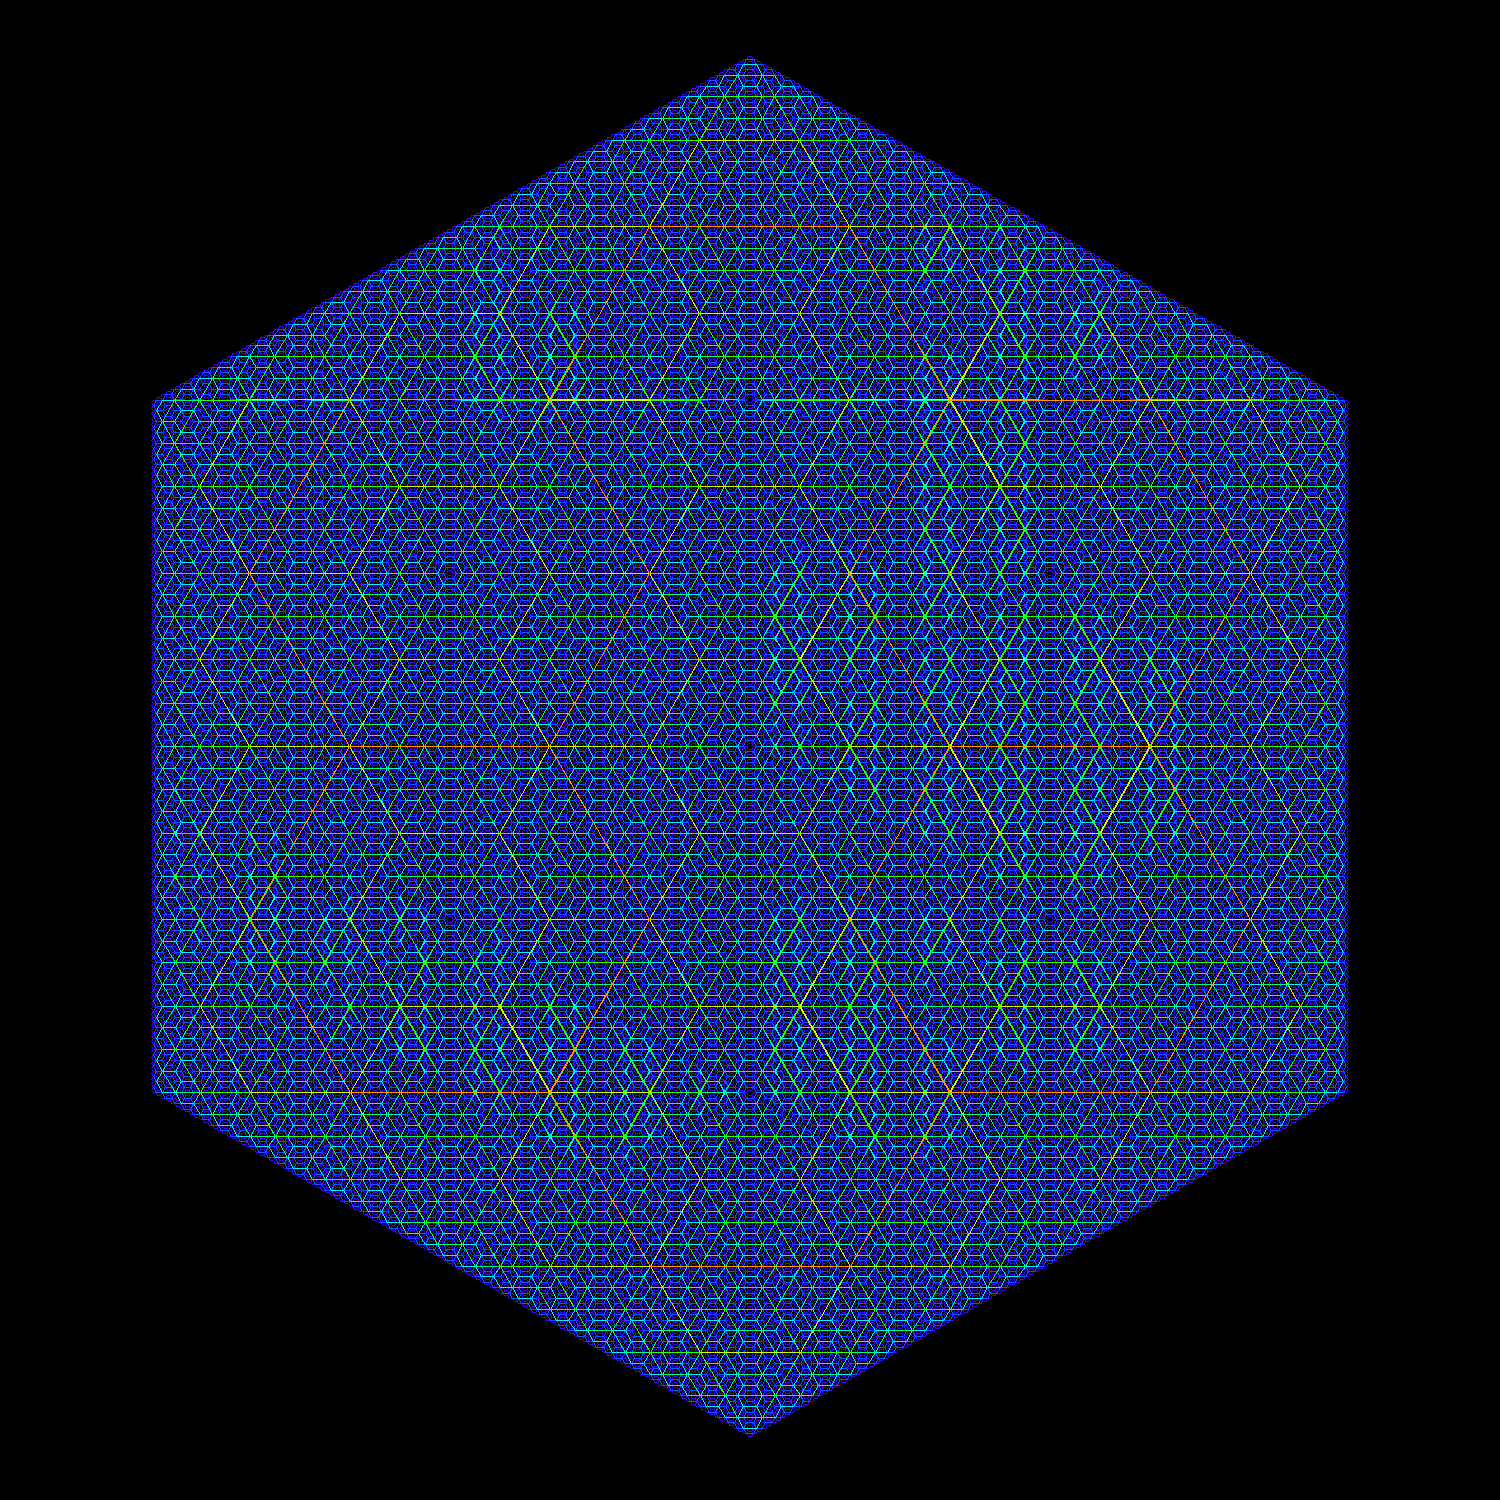
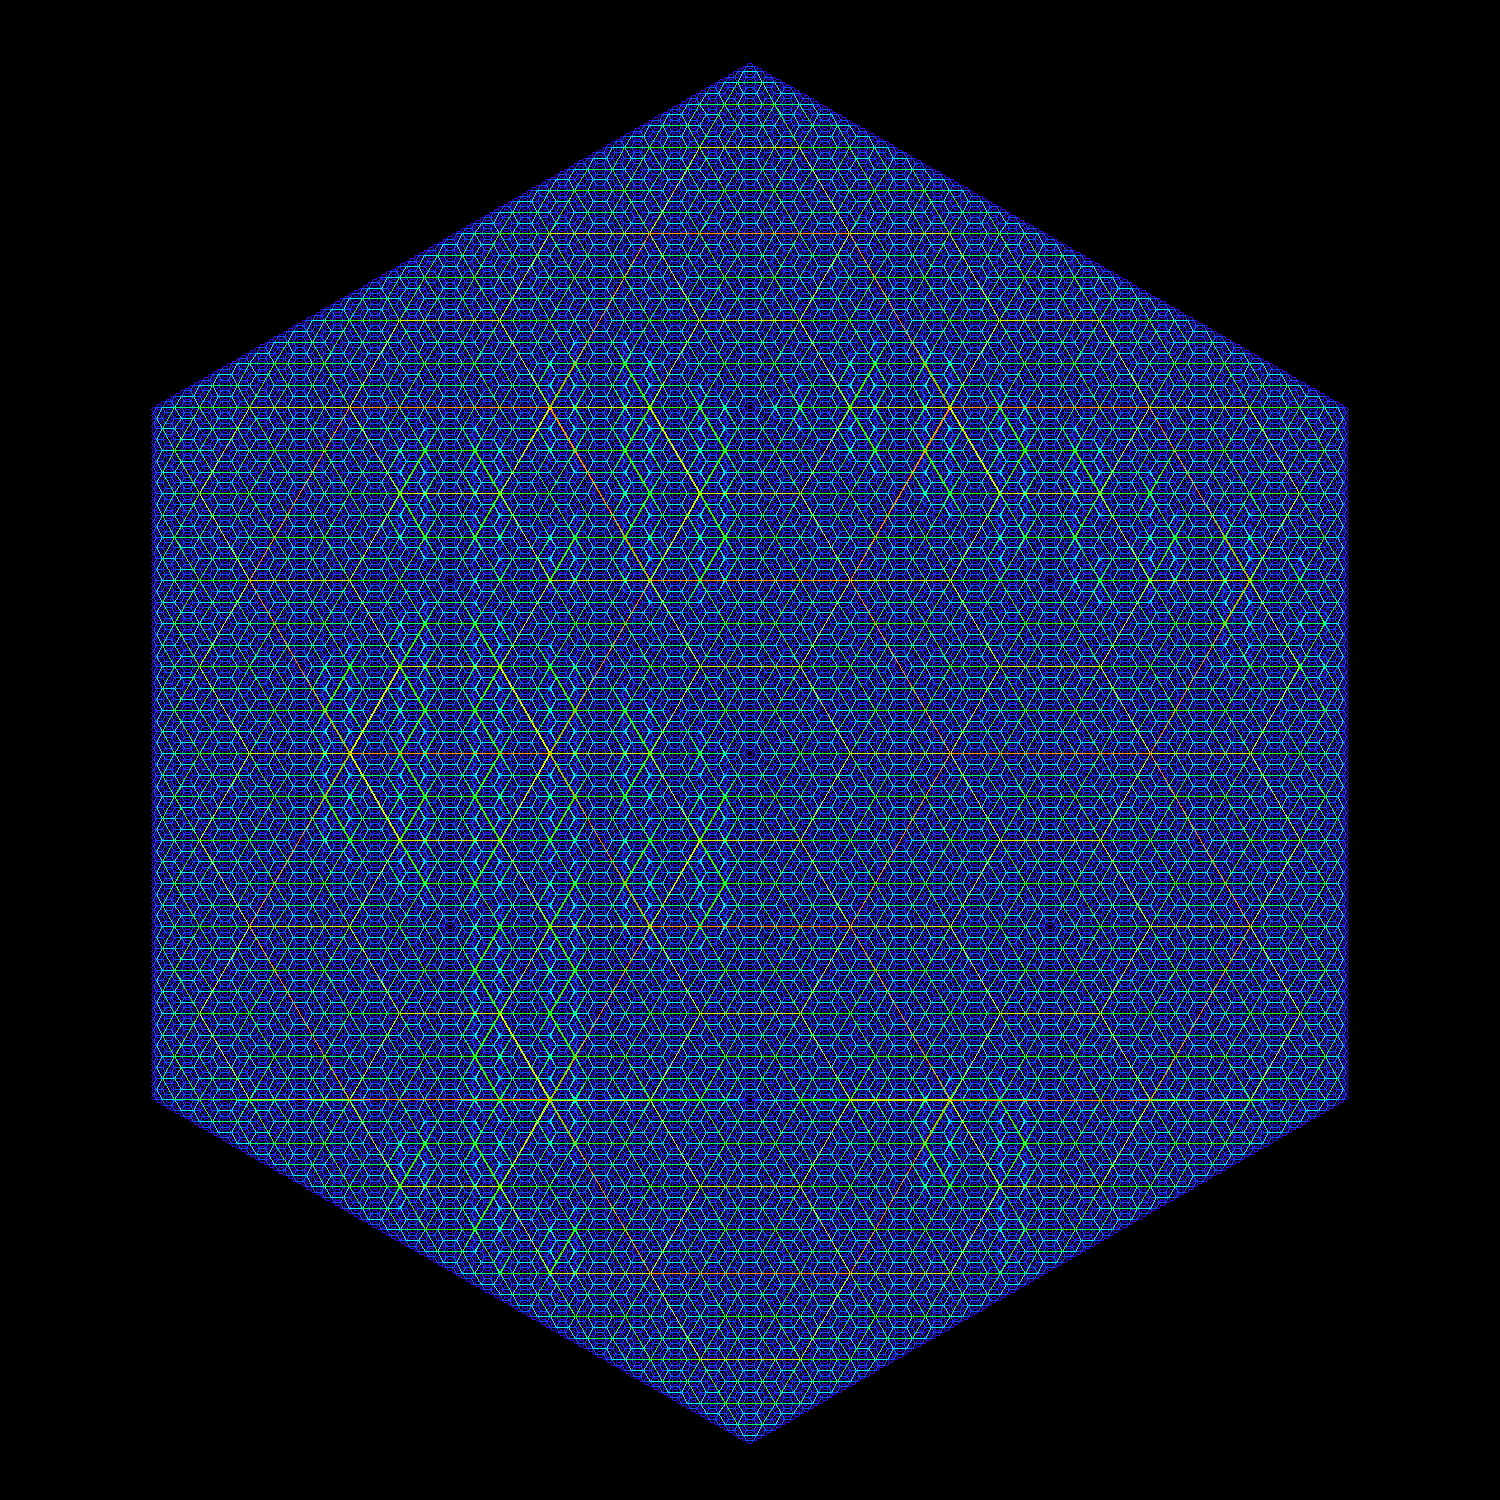
l

diff --git a/homework/fractals.py b/homework/fractals.py
@@ -1,3 +1,9 @@
+#Ian
+#OMH
+#10/3/19
+#This program draws three fractals. There is no randomness, so the same fractals should be drawn every time. 2 of the fractals are from the mandelbrot set, while the third is on that I created by drawing a hexagon, then drawing a smaller hexagon at the vertex of that hexagon, and continuing to draw hexagons for several iterations. I decided on the color schemes by trying many different things, and found that basic math, modulous, and trigonomoty make some very interesting color patterns.
+#Sources: Spencer, https://pypi.org/project/progressbar2/
+
 import sys
 from PIL import Image, ImageDraw
 from numpy import interp
@@ -5,100 +11,75 @@ from progressbar import progressbar as bar
 import math
 import colorsys
 
+#converts HSL color to rgb color
 def HSL(h,s,l):
 	import colorsys
 	color = [h, s, l]
 	color = colorsys.hls_to_rgb(color[0]/360, color[1]/100, color[2]/100)
 	color = [int(color[i]*255) for i in range(3)]
 	return tuple(color)
-
-def mandelbrot1(c, z =complex(0,0),i = 0):
+#checks wether a given number is within the mandelbrot set
+def mandelbrot(c,maxIt, z =complex(0,0),i = 0):
 	if abs(z)>= 2 or i>=maxIt:
 		return i
-	return mandelbrot1(c,z**2 +c,i+1)
+	return mandelbrot(c,maxIt,z**2 +c,i+1)
 
-#without numpy, ((xmax-xmin)/dimx)*x+xmin
-def mandelpixel1(x,y):
-	c = mandelbrot1(complex(interp(x,[0,dimx],[xmin,xmax]),interp(y,[0,dimy],[ymin,ymax])))
+#Calculates what color a given pixel should be based on the value received from the mandelbrot function for that pixel
+def mandelpixel1(x,y,dimx,dimy,xmin,xmax,ymin,ymax,maxIt,name):
+	c = mandelbrot(complex(interp(x,[0,dimx],[xmin,xmax]),interp(y,[0,dimy],[ymin,ymax])),maxIt)
 	r = 0
 	g = 0
 	b = ((c/500)*dimx*3.00)%256
-	bluemandel.putpixel((x,y),(int(r),int(g),int(b)))
+	name.putpixel((x,y),(int(r),int(g),int(b)))
 
-#without numpy, ((xmax-xmin)/dimx)*x+xmin
-def mandelpixel2(x,y):
-	c = mandelbrot2(complex(interp(x,[0,dimx],[xmin,xmax]),interp(y,[0,dimy],[ymin,ymax])))
+#does the same thing as the previous function, but with a different method for calculating the color
+def mandelpixel2(x,y,dimx,dimy,xmin,xmax,ymin,ymax,maxIt,name):
+	c = (256/maxIt)*(mandelbrot(complex(interp(x,[0,dimx],[xmin,xmax]),interp(y,[0,dimy],[ymin,ymax])),maxIt))
 	r = (c*4)%256
 	g = 0
 	b = (c*4)%256
-	purplemandel.putpixel((x,y),(int(r),int(g),int(b)))
+	name.putpixel((x,y),(int(r),int(g),int(b)))
 
-def hexagon(x,y,l,point, c, count=0):
-	if count <= maxIt:
+def hexagon(x,y,l,point, c,name,maxIt,hexes,draw,count=0,):
+	if count < maxIt:
 		for i in range(6):
-			hexagon(x,y,l/2,point-1, c, count+1)
+			hexagon(x,y,l/2,point-1, c,name,maxIt,hexes,count+1)
 			point = (point+1)%6
 			angle = interp(point,[0,6],[0,2*math.pi])
 			a,b = x,y
 			x,y = x+l*math.cos(angle),y+l*math.sin(angle)
-			if count == maxIt:
-				draw.line((int(a),int(b), int(x),int(y)), fill=HSL(int((count/maxIto)*255),50,100))
+			hexes[count].append([(int(a),int(b), int(x),int(y)), HSL(int((count/maxIt)*255),50,100)])
+	else:
+		total = 0
+		for i in range(maxIt):
+			total += len(hexes[i])
+		if 6**maxIt == total:
+			for i in range(maxIt):
+				for j in range(len(hexes[i])):
+					draw.line((hexes[i][j][k] for k in range(4)),fill=hexes[i][j][4])
 
-def mandelbrot2(c, z =complex(0,0),i = 0):
-	if abs(z)>= 2 or i>=maxIt:
-		return i*(256/maxIt)
-	return mandelbrot2(c,z**2 +c,i+1)
+def runMandel(dimx,dimy,xmin,xmax,ymin,ymax,maxIt,name,type):
+	name = Image.new("RGB",(dimx,dimy))
+	sys.setrecursionlimit(maxIt+10)
+	for i in bar(range(dimx)):
+		for j in range(dimy):
+			if type == 1:
+				mandelpixel1(i,j,dimx,dimy,xmin,xmax,ymin,ymax,maxIt,name)
+			else:
+				mandelpixel2(i,j,dimx,dimy,xmin,xmax,ymin,ymax,maxIt,name)
+	name.save(name+".png", "PNG")
 
+def runHex(x,y,l,point,c,dimx,dimy,maxIt,name):
+	name = Image.new("RGB",(dimx,dimy))
+	draw = ImageDraw.Draw(name)
+	sys.setrecursionlimit(5000)
+	hexes = []
+	for i in range(maxIt):
+		hexes.append([])
+	hexagon(x,y,l,point,c,name,maxIt, hexes,draw)
+	name.save(name+".png","PNG")
 
-#dimensions of picture
-dimx, dimy = 1000, 1000
-#range of mandelbrot
-xmin,xmax,ymin,ymax = -.3158267837126886,-.315826561940633446,.6533639614499106,.6533641832219648
-#max number if iterations of the mandelbrot function
-maxIt = 1000
-#makes the picture
-bluemandel = Image.new("RGB",(dimx,dimy))
-#sets the recursion limit so that maxIt will never hit it
-sys.setrecursionlimit(maxIt+4)
-#this makes a progress bar count how far along it is in the for loop
-#puts each pixel in place
-for i in bar(range(dimx)):
-	for j in range(dimy):
-		mandelpixel1(i,j)
-#saves the image
-bluemandel.save("bluemandel.png","PNG")
+# runMandel(1000, 1000,-.3158267837126886,-.315826561940633446,.6533639614499106,.6533641832219648,1000,"bluemandel", 1)
 
-
-
-dimx, dimy = 1500, 1500
-#makes the picture
-hexpicture = Image.new("RGB",(dimx,dimy))
-draw = ImageDraw.Draw(hexpicture)
-#max number if iterations of the mandelbrot function
-maxIt = 7
-maxIto = maxIt
-#sets the recursion limit so that maxIt will never hit it
-sys.setrecursionlimit(1000)
-while(maxIt>0):
-	hexagon(550,400,400,5,(255,0,0))
-	maxIt -= 1
-hexpicture.save("hex.png","PNG")
-
-
-#dimensions of picture
-dimx, dimy = 1000, 1000
-#range of mandelbrot
-xmin,xmax,ymin,ymax = -.04268973253251546,-.042678548183545745, -.9899397662400176, -.9899285829010478
-#max number if iterations of the mandelbrot function
-maxIt = 2000
-#makes the picture
-purplemandel = Image.new("RGB",(dimx,dimy))
-#sets the recursion limit so that maxIt will never hit it
-sys.setrecursionlimit(maxIt+4)
-#this makes a progress bar count how far along it is in the for loop
-#puts each pixel in place
-for i in bar(range(dimx)):
-	for j in range(dimy):
-		mandelpixel2(i,j)
-#saves the image
-purplemandel.save("purplemandel.png","PNG")
+# runMandel(1000, 1000,-.04268973253251546,-.042678548183545745, -.9899397662400176, -.9899285829010478,2000,"purplemandel", 2)
+runHex(550,400,400,5,(255,0,0),1500,1500,7, "hexpicture")

diff --git a/cspictures/1/mandelbrot_picture.py b/cspictures/1/mandelbrot_picture.py
@@ -57,7 +57,7 @@ dimx, dimy = 1000, 1000
 #range of mandelbrot
 xmin,xmax,ymin,ymax = -.04268973253251546,-.042678548183545745, -.9899397662400176, -.9899285829010478
 #max number if iterations of the mandelbrot function
-maxIt = 2000
+maxIt = 1000
 #makes the picture
 purplemandel = Image.new("RGB",(dimx,dimy))
 #sets the recursion limit so that maxIt will never hit it
